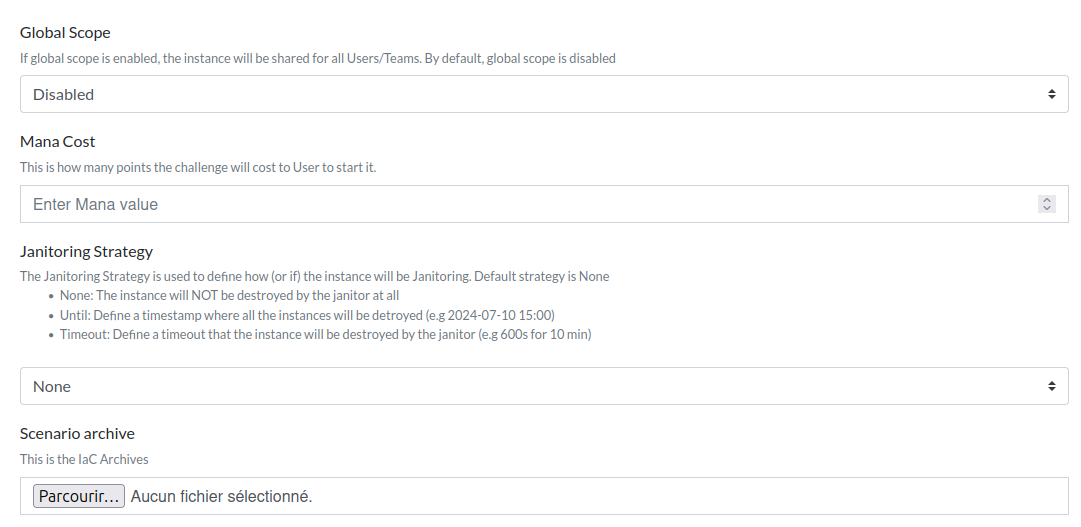
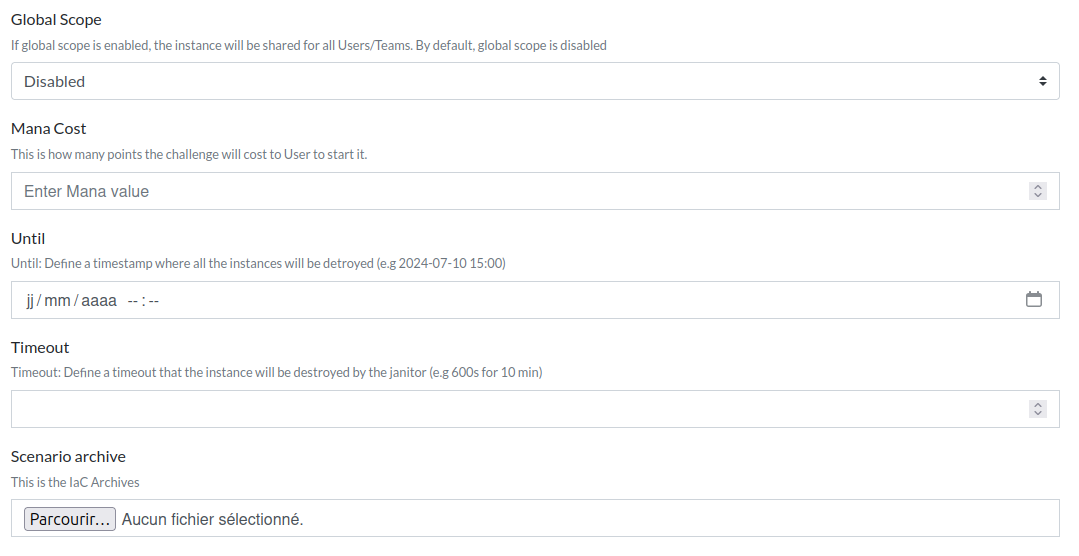
docs: remove janitoring strategy

diff --git a/webdocs/design/challenge/_index.md b/webdocs/design/challenge/_index.md
@@ -39,11 +39,8 @@ In this scenario, player X (yellow) and player Y (blue) will each have their own
 
 The **mana cost** is an integer representing the price users must pay in mana to deploy their own instance. Mana is refunded when the instance is destroyed. This system helps control the impact users have on the platform. For more details, see [how mana works](/docs/ctfd-chall-manager/desing/mana).
 
-### Janitoring Strategy
 
-The **janitoring strategy** is a setting that determines how chall-manager will handle the destruction of challenge instances. By default, the strategy is set to **None**, meaning instances are never destroyed by the Janitor and must be manually terminated by users.
-
-#### Until
+### Until
 
 The **until** setting allows you to specify a date and time at which instances will be automatically destroyed by the Janitor.
 
@@ -52,7 +49,7 @@ As a CTF administrator running a week-long event, you want a challenge available
 
 As a player, you can start your instance anytime before this date and destroy it whenever you like before the deadline.
 
-#### Timeout
+### Timeout
 
 The **timeout** is an integer that specifies, in seconds, how long after starting an instance the Janitor will automatically destroy it.
 
@@ -60,6 +57,11 @@ The **timeout** is an integer that specifies, in seconds, how long after startin
 As a CTF administrator or challenge creator, you estimate that your challenge takes about 30 minutes to solve. Set the Janitoring Strategy to **Timeout** and set the value to 1800 seconds (30 minutes).
 
 As a player, once you start your instance, it will be destroyed after 30 minutes unless renewed. You can also manually destroy the instance at any time to reclaim your mana.
+
+{{% alert title="Tips & Tricks" color="primary" %}}
+You can either combine the *Until* and *Timeout* values or leave both undefined.
+Find more info [here](/docs/chall-manager/design/expiration).
+{{% /alert %}}
 
 ### Scenario Archive
 

diff --git a/webdocs/guides/change-attribute/_index.md b/webdocs/guides/change-attribute/_index.md
@@ -47,17 +47,21 @@ When you arrive on the modification page, the value displayed is the one configu
 By editing this value, you do not edit the existing coupons of this challenge. 
 Also, you can organize sales periods.
 
-## Change the janitoring strategy
+## Change Timeout 
 When you arrive on the modification page, the value displayed is the one configured at the challenge level.
 
-{{% imgproc challenge-janitoring Fit "800x800" %}}
+{{% imgproc challenge-timeout Fit "800x800" %}}
 {{% /imgproc %}}
 
-{{% alert title="Warning" color="warning" %}}
-You can edit this value, but you can't change into None value due to CM limitation at this moment.
-An issue is open and work in progress.
-{{% /alert %}}
+You can change or reset this value, Chall-Manager will update all the computed `until` for instances. 
 
+## Change Until 
+When you arrive on the modification page, the value displayed is the one configured at the challenge level.
+
+{{% imgproc challenge-until Fit "800x800" %}}
+{{% /imgproc %}}
+
+You can change or reset this value, Chall-Manager will update all the computed `until` for instances. 
 
 ## Change the scenario
 When you arrive on the modification page, you can download the current scenario archive.
@@ -71,5 +75,3 @@ By editing this value, you need to provide an update strategy.
 {{% /imgproc %}}
 
 The update can be long, depends on the update gap and the strategy.
-
-## FAQ
